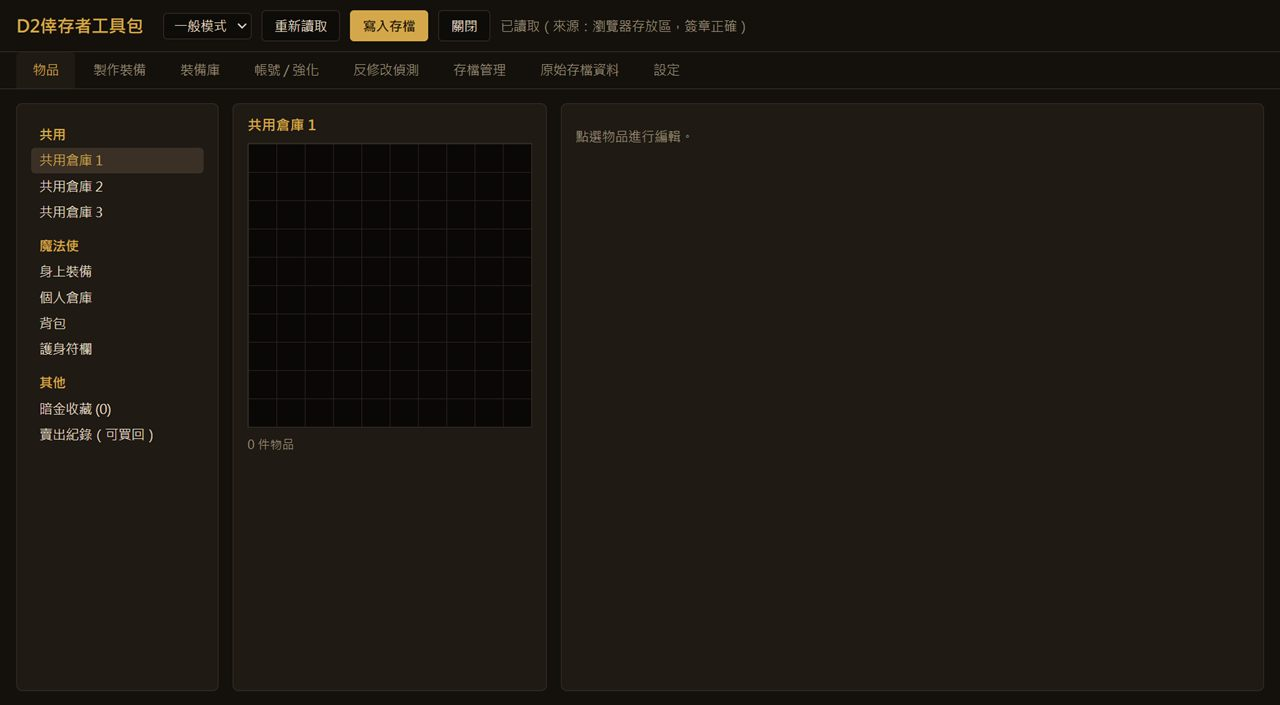
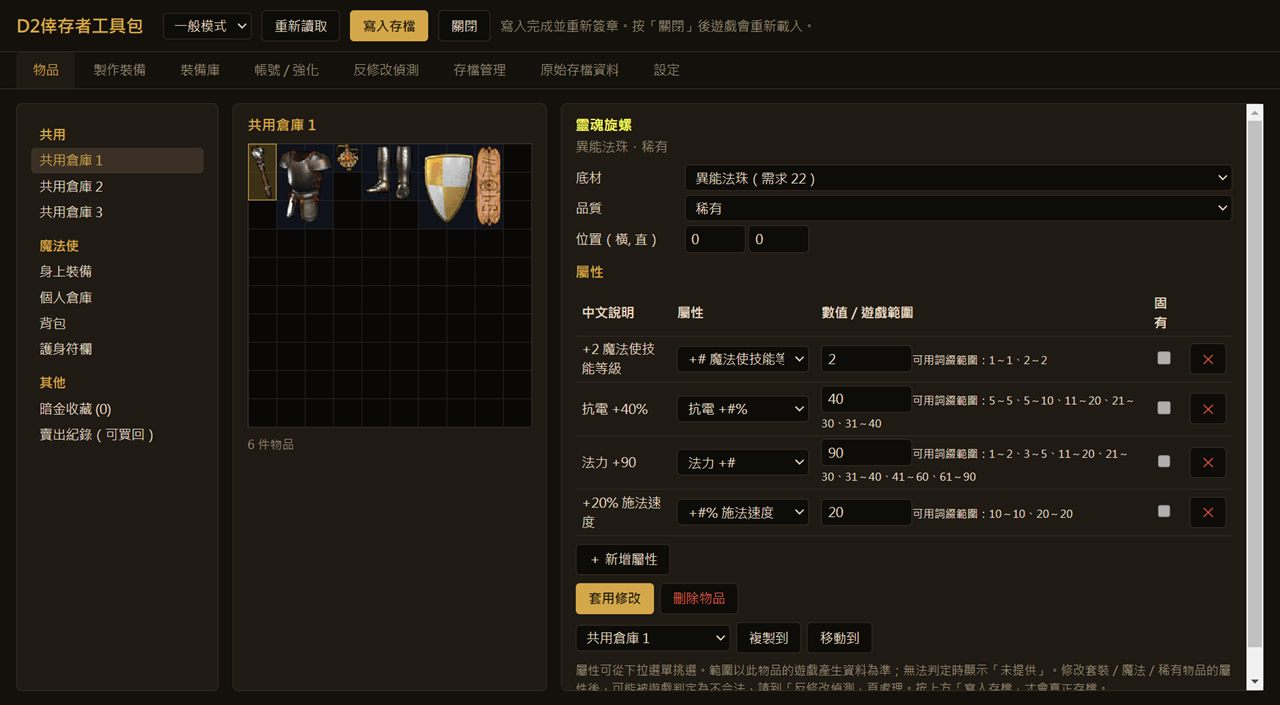
介紹網頁更新修改器畫面

diff --git a/site/index.html b/site/index.html
@@ -1214,12 +1214,12 @@
         </div>
 
         <div class="gallery-item">
-          <div class="gallery-img-wrap" onclick="openLightbox('img/editor.jpg', '存檔修改器介面')">
-            <img src="img/editor.jpg" alt="存檔修改器介面" loading="lazy" onerror="this.closest('.gallery-item').style.display='none';">
+          <div class="gallery-img-wrap" onclick="openLightbox('img/editor.jpg', '存檔修改器：倉庫裡製作好的裝備，點選即可檢視與編輯屬性及遊戲範圍')">
+            <img src="img/editor.jpg" alt="存檔修改器：倉庫裡製作好的裝備，點選即可檢視與編輯屬性及遊戲範圍" loading="lazy" onerror="this.closest('.gallery-item').style.display='none';">
           </div>
           <div class="gallery-caption">
             <span class="gallery-caption-tag">IMG 04</span>
-            <span>存檔修改器介面</span>
+            <span>存檔修改器：倉庫裡製作好的裝備，點選即可檢視與編輯屬性及遊戲範圍</span>
           </div>
         </div>
 
